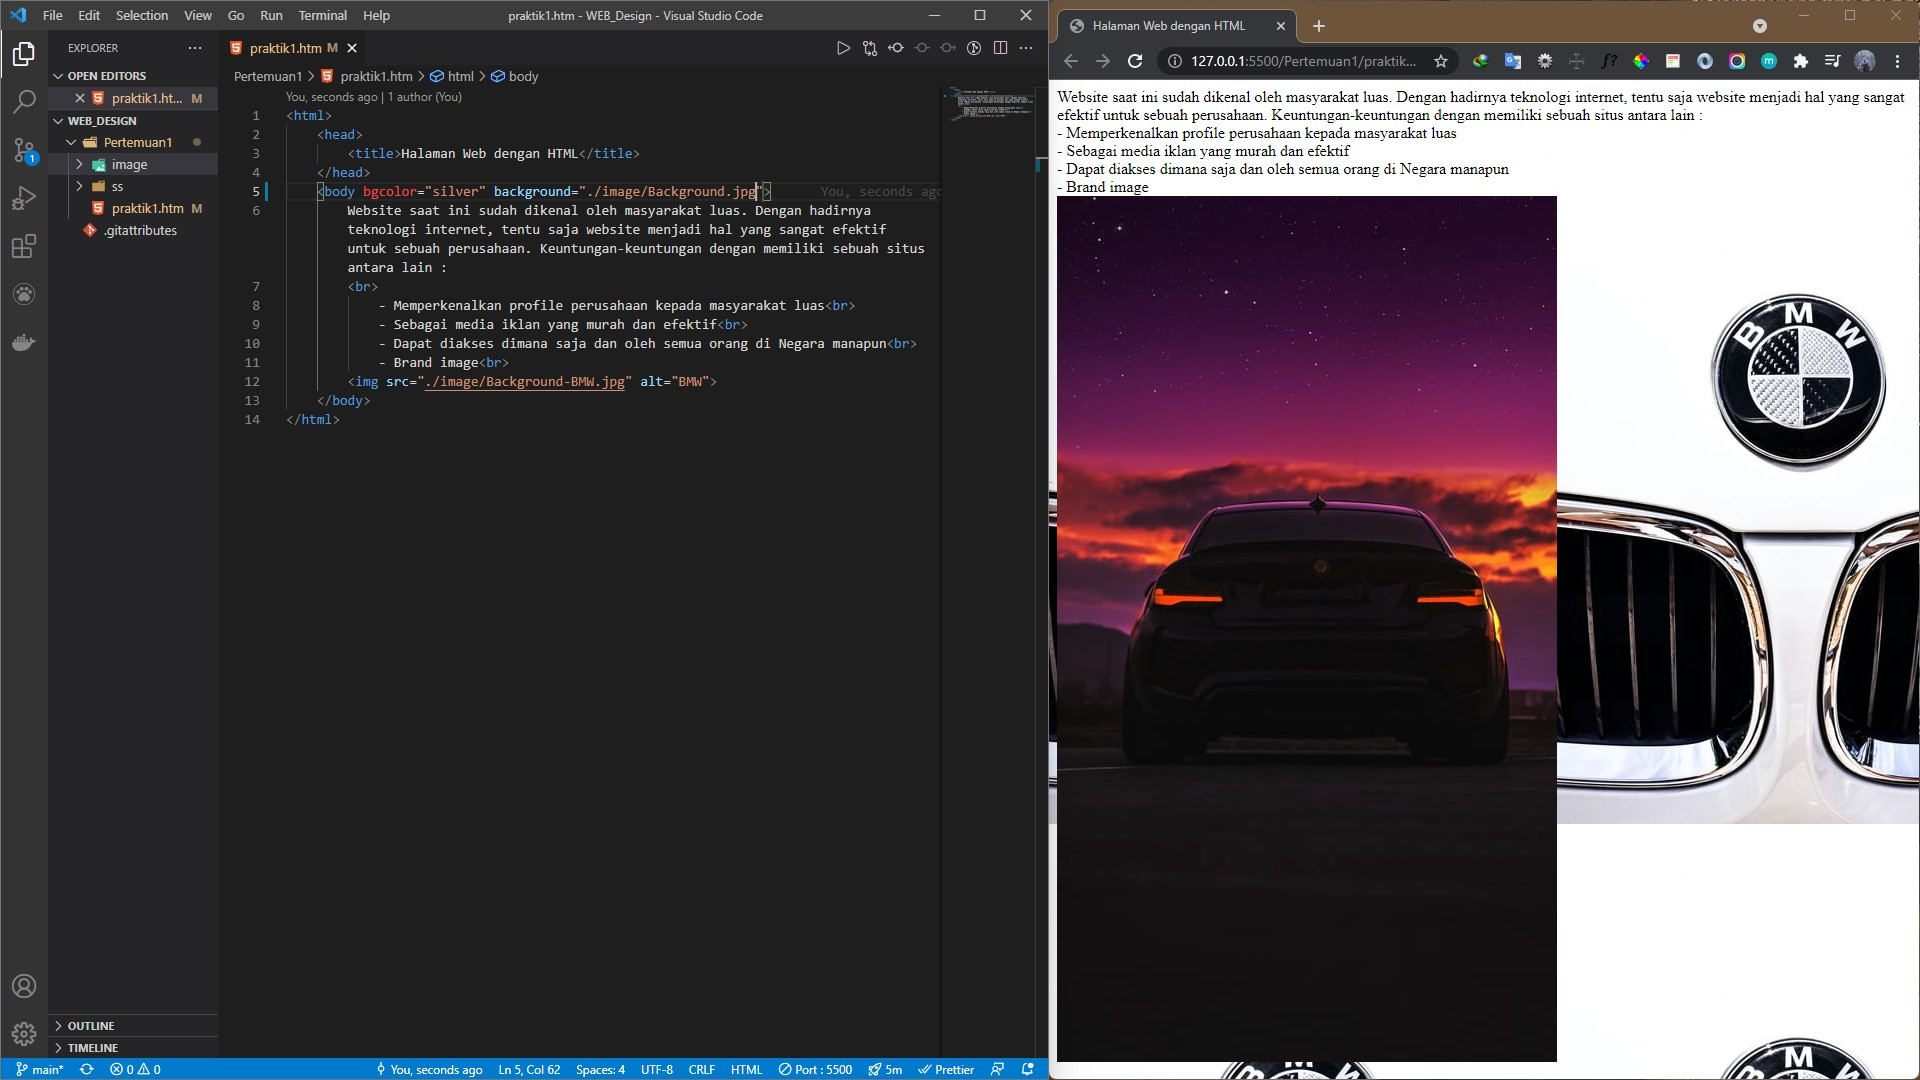
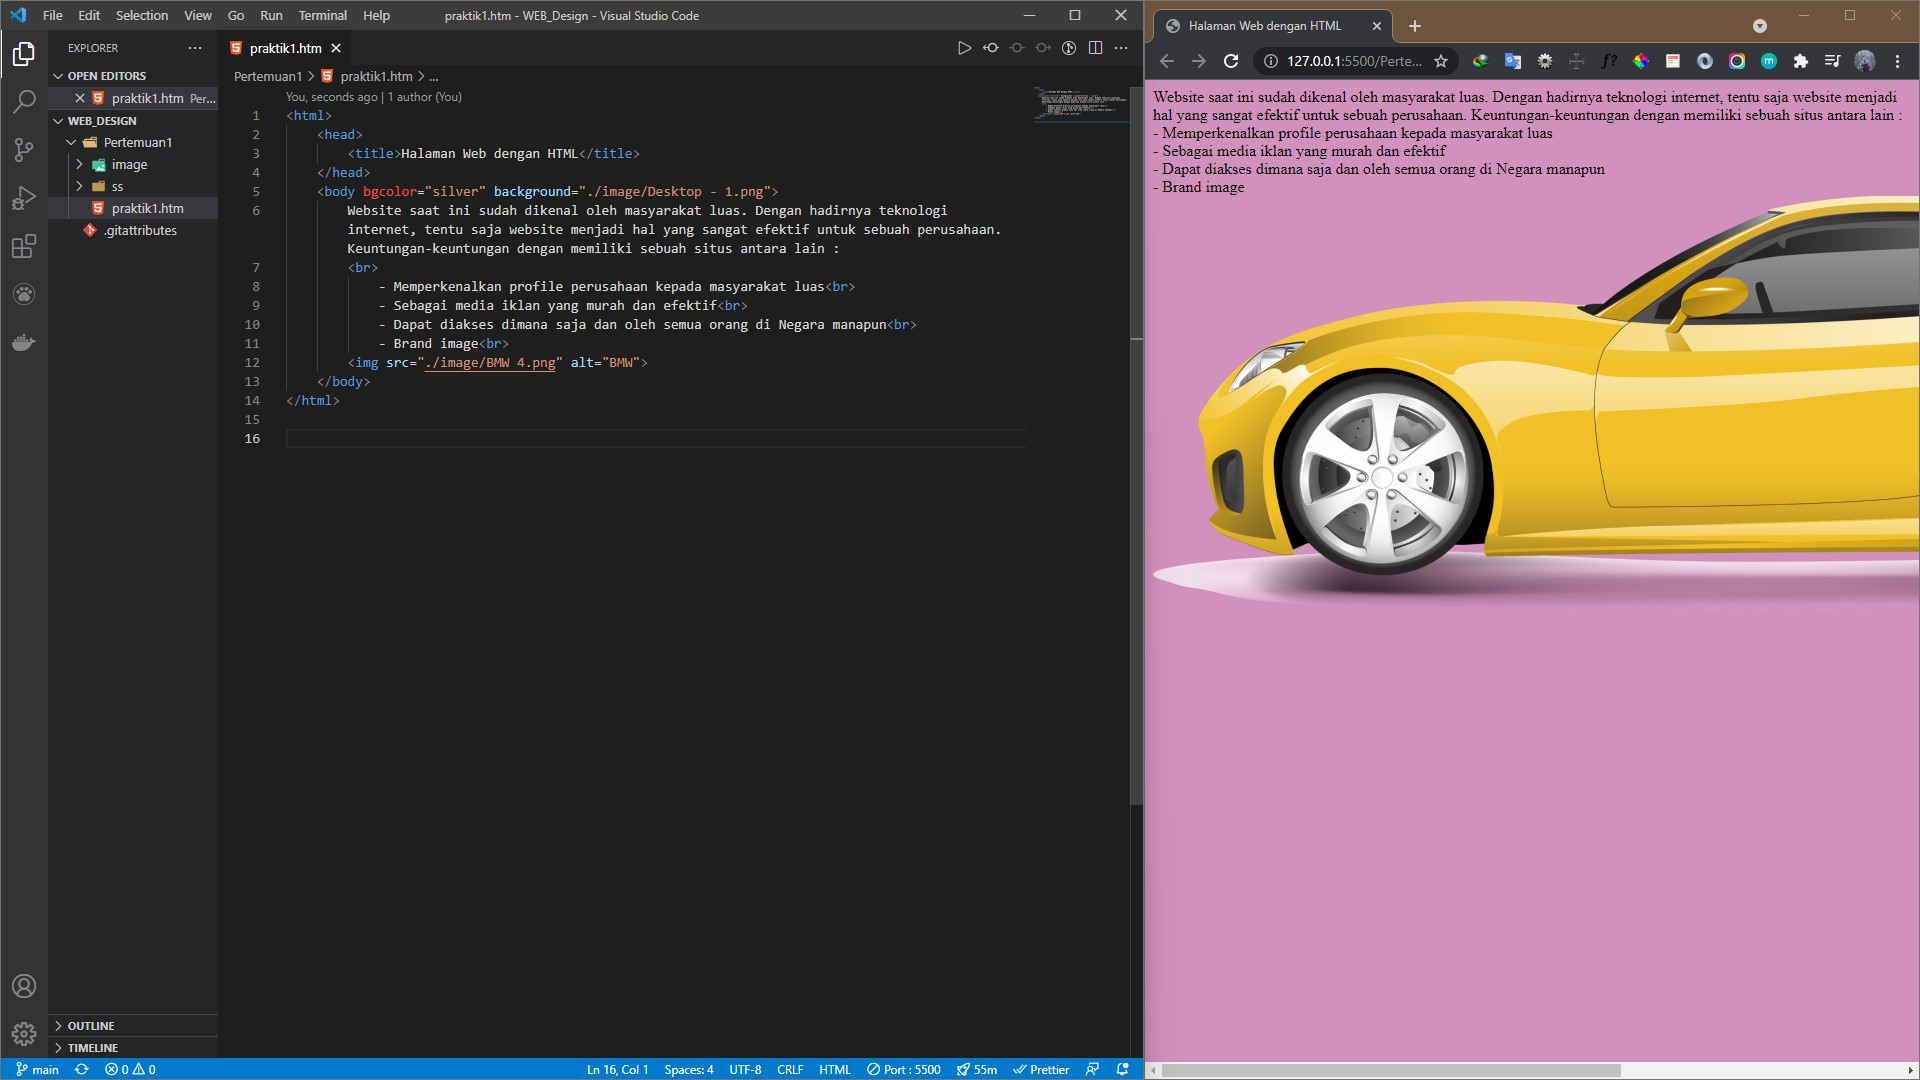
Tugas1

diff --git a/Pertemuan1/praktik1.htm b/Pertemuan1/praktik1.htm
@@ -1,15 +1,21 @@
 <html>
     <head>
         <title>Halaman Web dengan HTML</title>
+        <link rel="stylesheet" href="style.css">
     </head>
     <body bgcolor="silver" background="./image/Desktop - 1.png">
-        Website saat ini sudah dikenal oleh masyarakat luas. Dengan hadirnya teknologi internet, tentu saja website menjadi hal yang sangat efektif untuk sebuah perusahaan. Keuntungan-keuntungan dengan memiliki sebuah situs antara lain : 
-        <br>
-            - Memperkenalkan profile perusahaan kepada masyarakat luas<br>
-            - Sebagai media iklan yang murah dan efektif<br>
-            - Dapat diakses dimana saja dan oleh semua orang di Negara manapun<br>
-            - Brand image<br>
-        <img src="./image/BMW 4.png" alt="BMW">
+        <div class="hero">
+            <h1>BMW</h1>
+                <p>
+                    Website saat ini sudah dikenal oleh masyarakat luas. Dengan hadirnya teknologi internet, tentu saja website menjadi hal yang sangat efektif untuk sebuah perusahaan. Keuntungan-keuntungan dengan memiliki sebuah situs antara lain : <br>
+                    <ul>
+                        - Memperkenalkan profile perusahaan kepada masyarakat luas<br>
+                        - Sebagai media iklan yang murah dan efektif<br>
+                        - Dapat diakses dimana saja dan oleh semua orang di Negara manapun<br>
+                        - Brand image<br>
+                    </ul>
+                </p>
+            <img src="./image/BMW 4.png" alt="BMW">
+        </div>
     </body>
 </html>
-

diff --git a/Pertemuan1/style.css b/Pertemuan1/style.css
@@ -1,0 +1,14 @@
+*{
+    margin: 0;
+    padding: 0;
+    font-family: serif;
+}
+.hero h1{
+    text-align: right;
+}
+.hero p{
+    text-align: left;
+}
+.hero ul{
+    text-align: center;
+}
